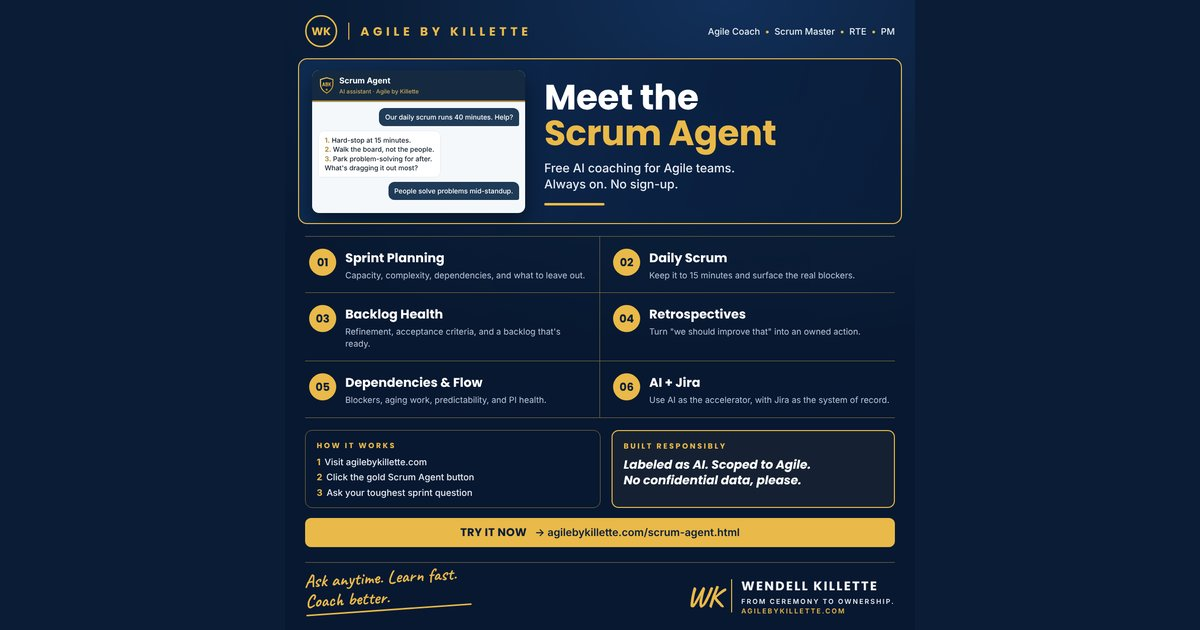
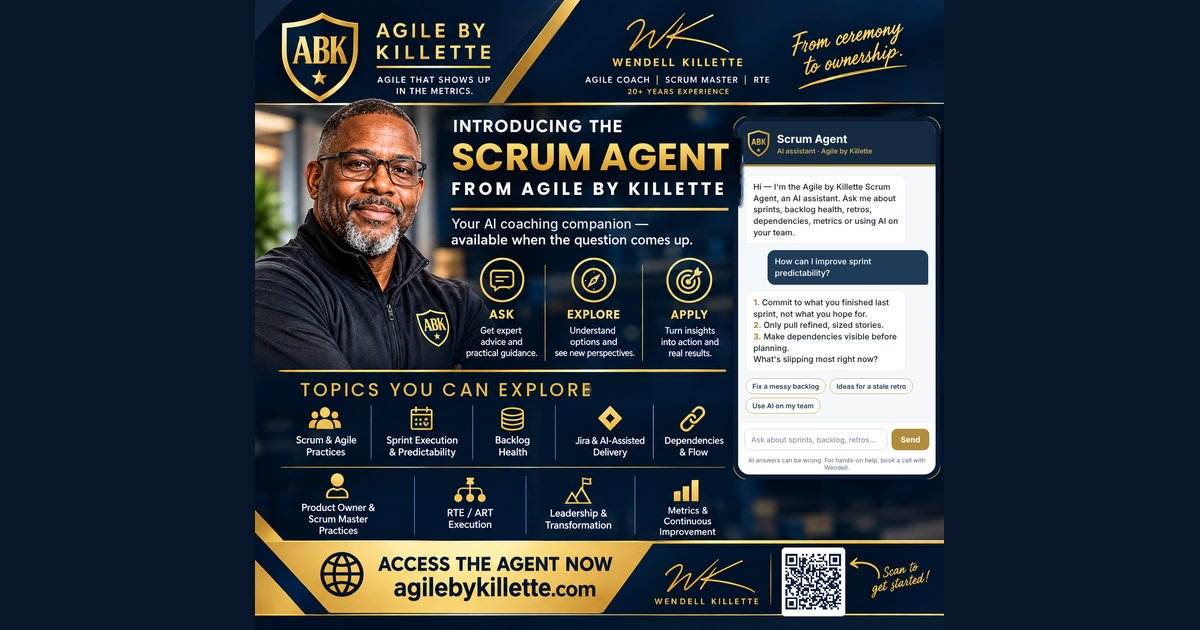
Scrum Agent intro card, clickable cards, and chat deep links

diff --git a/scrum-agent.html b/scrum-agent.html
@@ -6,7 +6,7 @@
 <meta property="og:type" content="article">
 <meta property="og:site_name" content="Agile by Killette">
 <meta property="og:locale" content="en_US">
-<meta property="og:title" content="Meet the Scrum Agent — free AI coaching for Agile teams">
+<meta property="og:title" content="Introducing the Scrum Agent from Agile by Killette">
 <meta property="og:description" content="Meet the Scrum Agent: free AI coaching for Scrum and SAFe teams on agilebykillette.com. Always on, no sign-up, built responsibly.">
 <meta property="og:url" content="https://agilebykillette.com/scrum-agent.html">
 <meta property="og:image" content="https://agilebykillette.com/og-scrum-agent.jpg">
@@ -14,7 +14,7 @@
 <meta property="og:image:height" content="630">
 <meta property="og:image:alt" content="Meet the Scrum Agent — free AI coaching for Agile teams">
 <meta name="twitter:card" content="summary_large_image">
-<meta name="twitter:title" content="Meet the Scrum Agent — free AI coaching for Agile teams">
+<meta name="twitter:title" content="Introducing the Scrum Agent from Agile by Killette">
 <meta name="twitter:description" content="Meet the Scrum Agent: free AI coaching for Scrum and SAFe teams on agilebykillette.com. Always on, no sign-up, built responsibly.">
 <meta name="twitter:image" content="https://agilebykillette.com/og-scrum-agent.jpg">
 <meta name="author" content="Wendell Killette">
@@ -91,8 +91,8 @@
   </div></header>
   <div class="wrap">
     <figure class="heroshot">
-      <img src="scrum-agent-card.jpg" width="1254" height="1254" alt="Meet the Scrum Agent: free AI coaching for Agile teams covering sprint planning, daily scrum, backlog health, retrospectives, dependencies and flow, and AI plus Jira.">
-      <figcaption>The Scrum Agent Coaching Card.</figcaption>
+      <a href="?chat=open" id="introCard" title="Open the Scrum Agent"><img src="scrum-agent-intro.jpg" width="1312" height="1199" alt="Introducing the Scrum Agent from Agile by Killette: your AI coaching companion for Scrum and Agile practices, sprint execution and predictability, backlog health, Jira and AI-assisted delivery, dependencies and flow, Product Owner and Scrum Master practices, RTE and ART execution, leadership and transformation, and metrics and continuous improvement."></a>
+      <figcaption>Click the card &mdash; or scan its QR code on your phone &mdash; to open the Scrum Agent.</figcaption>
     </figure>
 
     <div class="intro">Your daily scrum runs long. Your backlog is a junk drawer. Your retro produces the same three sticky notes every sprint. You shouldn&rsquo;t have to wait for a coach to be available to get unstuck &mdash; so I built one that&rsquo;s always on.</div>
@@ -111,6 +111,11 @@
         <p>It answers the way I coach: direct, practical, two to four things you can do this sprint &mdash; and it points you to the right playbook on this site when there&rsquo;s more to read.</p>
       </div>
     </div>
+
+    <figure class="heroshot" style="margin:6px 0 26px">
+      <img src="scrum-agent-card.jpg" width="1254" height="1254" alt="Scrum Agent quick-start card: what to ask, how it works, and how it's built responsibly.">
+      <figcaption>Quick-start card: what to ask and how it works.</figcaption>
+    </figure>
 
     <div class="sec-title">Built responsibly</div>
     <div class="cats">
@@ -146,6 +151,13 @@
     <div class="contact">Wendell Killette · Agile Coach · Scrum Master · RTE · PMP-trained PM · wendell@agilebykillette.com · 469-774-2233</div>
   </div></footer>
 <script>
+function openAgent(e) {
+  var fab = document.querySelector(".abk-sa-fab");
+  if (!fab) return;
+  if (e) e.preventDefault();
+  if (fab.getAttribute("aria-expanded") !== "true") fab.click();
+}
+document.getElementById("introCard").addEventListener("click", openAgent);
 document.getElementById("tryNow").addEventListener("click", function () {
   var fab = document.querySelector(".abk-sa-fab");
   if (fab) { if (fab.getAttribute("aria-expanded") !== "true") fab.click(); }

diff --git a/ai-day-to-day.html b/ai-day-to-day.html
@@ -88,6 +88,7 @@
     <figure class="heroshot">
       <img src="ai-day-to-day-card.jpg" width="1254" height="1254" alt="AI in My Day-to-Day as a Scrum Master: seven areas where AI supports delivery — requirements and backlog, sprint planning, daily scrum, development and quality, release and deployment, sprint review and retrospective, and Jira plus AI.">
       <figcaption>The one-page view. The full story is below.</figcaption>
+      <div style="text-align:center;padding:0 16px 16px"><a href="?ask=How%20can%20I%20use%20AI%20as%20a%20Scrum%20Master%20without%20replacing%20the%20team%27s%20thinking%3F" style="display:inline-block;background:#C9A85C;color:#152A40;font-weight:800;padding:11px 22px;border-radius:30px;text-decoration:none">Ask the Scrum Agent about this card &rarr;</a></div>
     </figure>
 
     <div class="intro">As a Scrum Master, I use AI as an assistant and a validator across the SDLC. It helps me move faster, but the thinking, the coaching, and the decisions stay with people.</div>

diff --git a/scrum-agent.js b/scrum-agent.js
@@ -164,4 +164,13 @@
   input.addEventListener("input", autosize);
   input.addEventListener("keydown", function (e) { if (e.key === "Enter" && !e.shiftKey) { e.preventDefault(); ask(input.value); } });
   document.addEventListener("keydown", function (e) { if (e.key === "Escape" && !panel.hidden) { open(false); fab.focus(); } });
+  // Deep links: ?chat=open (or #scrum-agent) opens the chat; ?ask=Your+question opens it with the question ready to send.
+  try {
+    var qs = new URLSearchParams(location.search);
+    var preset = (qs.get("ask") || "").slice(0, 300);
+    if (preset || qs.get("chat") === "open" || location.hash === "#scrum-agent") {
+      open(true);
+      if (preset) { input.value = preset; autosize(); }
+    }
+  } catch (e) {}
 })();
